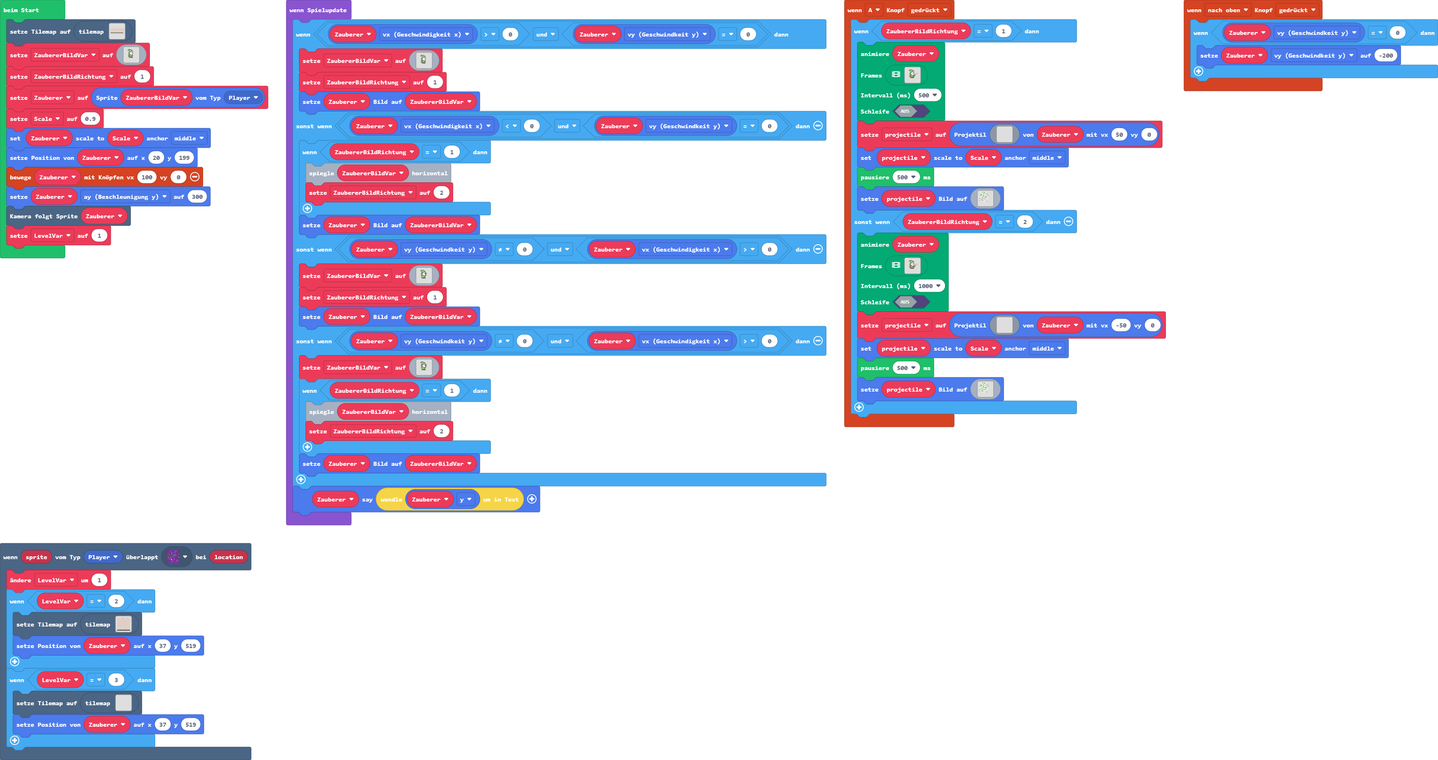
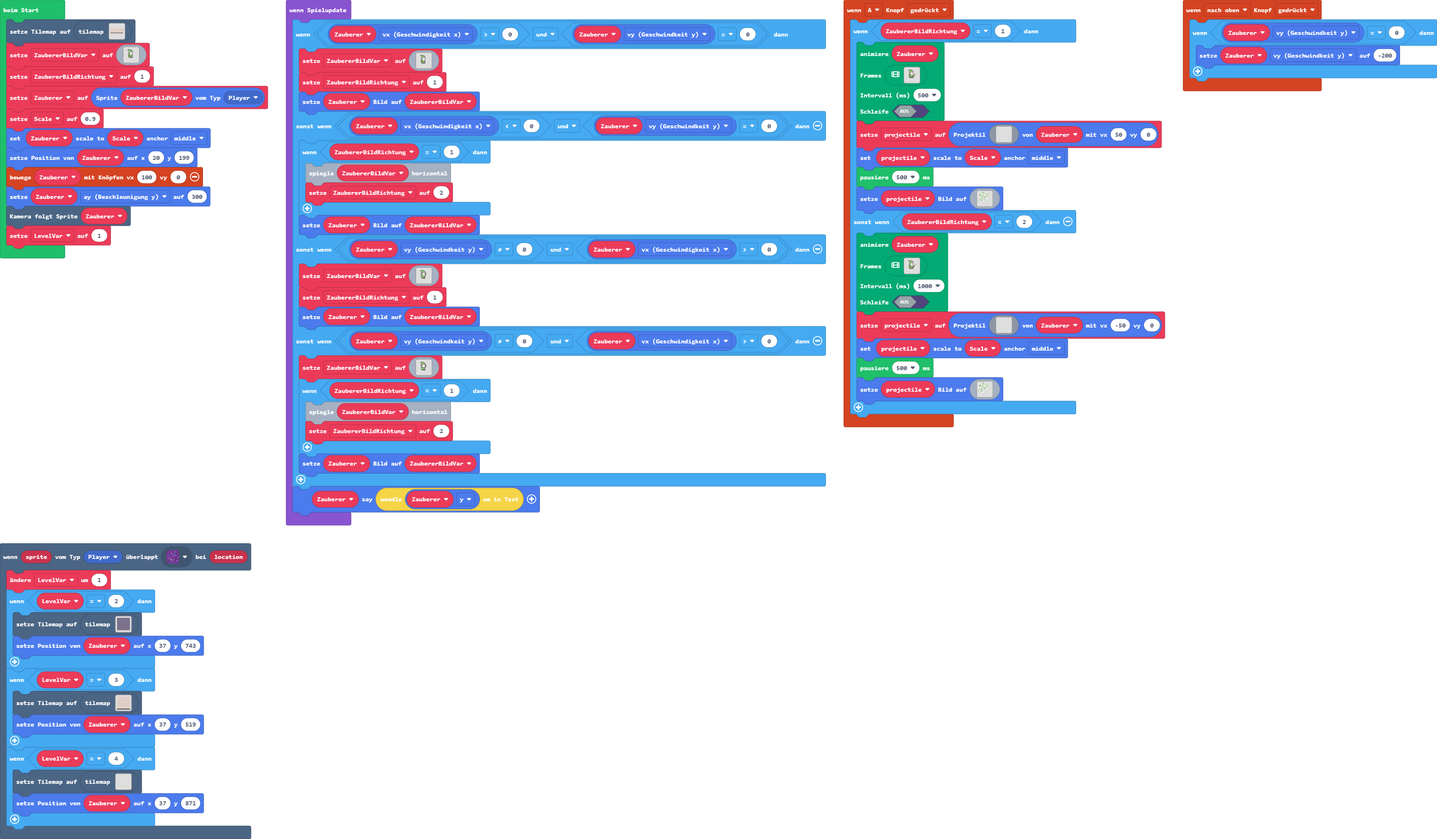
add bossarena

Changed region(s): [[0.0, 0.0, 0.8079, 0.9909], [0.8079, 0.0, 1.0, 0.1239]]

diff --git a/tilemap.g.ts b/tilemap.g.ts
@@ -9,7 +9,26 @@ namespace myTiles {
 
     helpers._registerFactory("tilemap", function(name: string) {
         switch(helpers.stringTrim(name)) {
-            case "Level2Tilemap0":
+            case "Level1Tilemap":
+            case "Level2Tilemap1":return tiles.createTilemap(hex`24001000010101010101010101010101010101010101010101010101010101010101010101010101010101010101010101010101010101010101010101010101010101010101010101010101010101010101010101010101010101010101010101010101010101010101010101010101010101010101010101010101010101010101010101010101010101010101010101010101010101010101010101010101010101010101010101010101010101010101010101050106010101010101010101040101010505050401010101010101010101010101010101050106010101010101010101010101010101010101010101010501050101010404040404040404010101010101010101010101010101010101010101010101010101010101010101010101010101010101010101010101010101010101010101010101010101010101010101010101010101010404010101010101010101010101010101010101010101010101010101010101010101010104040101010101010101010101010101010101010101010101010101010101010101010101010101010101010101010101010101010101010101010101010101010101030303030303030303030303030303030303030303030303030303030303030303030301020202020202020202020202020202020202020202020202020202020202020202020201010101010101010101010101010101010101010101010101010101010101010101010101010101010101010101010101010101010101010101010101010101010101010101010101`, img`
+....................................
+....................................
+....................................
+....................................
+.................................2..
+.........2...2222................2..
+......................2.2...2....222
+....................................
+....................................
+....22..............................
+.....22.............................
+....................................
+....................................
+22222222222222222222222222222222222.
+....................................
+....................................
+`, [myTiles.transparency16,sprites.castle.tilePath5,sprites.builtin.forestTiles10,sprites.castle.tilePath8,sprites.castle.tilePath2,myTiles.tile1,myTiles.tile2], TileScale.Sixteen);
+            case "Level2Tilemap":
             case "Level2":return tiles.createTilemap(hex`2300230001010101010101010101010101010101010101010101010101010101010101010101010101010101010101010101010101010301010101010101010101010101010101010101010101010101010101010101010101030101010101010101010101010101010101010101010101010101010101010101010101010101010101010101010101010101010101010101010101010101010101010101010101010101010101010101010101010101010101010101010101010101010101010101010101010101010101010101010101010101010101010101010101010101010101010101010101010101010101010101010101010101010101010101010101010101010101010101010101010101010101010101010101010101010101010101010101010101010101010101010101010101010101010101010101010102020202010101020202020202020202020202020202020202020202020202020202020101010101010101010101010101010101010101010101010101010101010101010101010101010101010101010101010101010101010101010101010101010101010101010101010101010101010101010101010101010101010101010101010101010101010101010202020202020202020202020201010101010202020202020202020202020202020202010101010101010101010101010101010202010101010101010101010101010101010101010101010101010101010101010102010101010101010101010101010101010101010101010101010101010101010101010101010101010101010101010101010101010101010101010101010101010101010101010101010101010101010101010101010101010102020202020202020202020202010101010202020202020202020202020202020202020101010101010101010101010102010101010101010101010101010101010101010101010101010101010101010101010101010101010101010101010101010101010101010101010101010101010101010101010101010101010101010101010101010101010101010202020202020202020202020202020202010101010101010101010101010101010101010101010101010101010101010101010102020202020202020202010101010202020201010101010101010101010101010101010101010101010101010102020101010101010101010101010101010101010101010101010101010101010101010101010101010101010101010101010101010101010101010101010101010101010101010101010101010101010101010101010101010101010101010101010101010101010101010101010101010101010101010101010101010101010101010101010101010101020202020202020202010101010101010101010202020202020202020202020202020201010101010101010101010102020202020202010101010101010101010101010101010101010101010101010101010101010101010101010101010101010101010101010101010101010101010101040404040404040404040404040404040404040404040404040404040404040404040405050505050505050505050505050505050505050505050505050505050505050505050505050505050505050505050505050505050505050505050505050505050505050505`, img`
 ...................................
 ...................................
@@ -47,27 +66,71 @@ namespace myTiles {
 22222222222222222222222222222222222
 22222222222222222222222222222222222
 `, [myTiles.transparency16,sprites.castle.tilePath5,sprites.castle.tilePath2,myTiles.tile2,sprites.castle.tilePath8,sprites.builtin.forestTiles6], TileScale.Sixteen);
-            case "Level1Tilemap":
-            case "Level2Tilemap1":return tiles.createTilemap(hex`24001000010101010101010101010101010101010101010101010101010101010101010101010101010101010101010101010101010101010101010101010101010101010101010101010101010101010101010101010101010101010101010101010101010101010101010101010101010101010101010101010101010101010101010101010101010101010101010101010101010101010101010101010101010101010101010101010101010101010101010101050106010101010101010101040101010505050401010101010101010101010101010101050106010101010101010101010101010101010101010101010501050101010404040404040404010101010101010101010101010101010101010101010101010101010101010101010101010101010101010101010101010101010101010101010101010101010101010101010101010101010404010101010101010101010101010101010101010101010101010101010101010101010104040101010101010101010101010101010101010101010101010101010101010101010101010101010101010101010101010101010101010101010101010101010101030303030303030303030303030303030303030303030303030303030303030303030301020202020202020202020202020202020202020202020202020202020202020202020201010101010101010101010101010101010101010101010101010101010101010101010101010101010101010101010101010101010101010101010101010101010101010101010101`, img`
-....................................
-....................................
-....................................
-....................................
-.................................2..
-.........2...2222................2..
-......................2.2...2....222
-....................................
-....................................
-....22..............................
-.....22.............................
-....................................
-....................................
-22222222222222222222222222222222222.
-....................................
-....................................
-`, [myTiles.transparency16,sprites.castle.tilePath5,sprites.builtin.forestTiles10,sprites.castle.tilePath8,sprites.castle.tilePath2,myTiles.tile1,myTiles.tile2], TileScale.Sixteen);
             case "Level3Tilemap":
-            case "Level3Tilemap1":return tiles.createTilemap(hex`1000100000000000000000000000000000000000000000000000000000000000000000000000000000000000000000000000000000000000000000000000000000000000000000000000000000000000000000000000000000000000000000000000000000000000000000000000000000000000000000000000000000000000000000000000000000000000000000000000000000000000000000000000000000000000000000000000000000000000000000000000000000000000000000000000000000000000000000000000000000000000000000000000000000000000000000000000000000000000000000000000000000000000000000000000000000000000`, img`
[1 lines of base64/hex data omitted]
+......................................................................
+......................................................................
+......................................................................
+......................................................................
+......................................................................
+......................................................................
+......................................................................
+......................................................................
+......................................................................
+......................................................................
+......................................................................
+......................................................................
+......................................................................
+......................................................................
+......................................................................
+......................................................................
+......................................................................
+......................................................................
+......................................................................
+......................................................................
+......................................................................
+......................................................................
+......................................................................
+......................................................................
+......................................................................
+......................................................................
+......................................................................
+......................................................................
+......................................................................
+......................................................................
+......................................................................
+......................................................................
+......................................................................
+......................................................................
+......................................................................
+......................................................................
+......................................................................
+......................................................................
+......................................................................
+......................................................................
+......................................................................
+......................................................................
+......................................................................
+......................................................................
+......................................................................
+......................................................................
+......................................................................
+......................................................................
+......................................................................
+......................................................................
+......................................................................
+......................................................................
+......................................................................
+........................................22............................
+...2222222222222........................222222222222..................
+.222............22222...............22222.............................
+....................22222222......22..................................
+...........................22222222...................................
+......................................................................
+......................................................................
+`, [myTiles.transparency16,sprites.castle.tileGrass2], TileScale.Sixteen);
+            case "Level1":
+            case "Level1":return tiles.createTilemap(hex`1000100000000000000000000000000000000000000000000000000000000000000000000000000000000000000000000000000000000000000000000000000000000000000000000000000000000000000000000000000000000000000000000000000000000000000000000000000000000000000000000000000000000000000000000000000000000000000000000000000000000000000000000000000000000000000000000000000000000000000000000000000000000000000000000000000000000000000000000000000000000000000000000000000000000000000000000000000000000000000000000000000000000000000000000000000000000000`, img`
 . . . . . . . . . . . . . . . . 
 . . . . . . . . . . . . . . . . 
 . . . . . . . . . . . . . . . . 
@@ -85,6 +148,59 @@ namespace myTiles {
 . . . . . . . . . . . . . . . . 
 . . . . . . . . . . . . . . . . 
 `, [myTiles.transparency16], TileScale.Sixteen);
+            case "Bossarena1Tilemap":
+            case "Bossarena1Tilemap1":return tiles.createTilemap(hex`3200320004070707030303030303030303030303030303030303030303030303030303070707070707070707070303070707070707060803030307070707070707070703030303030303030303030303030303030707030303030303030307070707030303030308080303030303030303030303030707070703030303030303030303030707030303030303030303030303030303030303030808030303030303030303030303030303030707070303030303030303070303030303030303030303030303030303070703080803030303030303030303030303030303030303070703030303070703030303030303030303030303030707070703030308080307030303030303030303030303030303030303030707070707030303030303030303030303070707030303030303030808030707070707070707070707070707070303030303030303030303030303030303030307070703030303030303030303080803030303030303030303030303030303030303030303030303030303030303070707070303030303030303030303030308080203030303030303030303030303030303030303030303030303030303070703030303030303030303030303030303030803030203030303030303030303030303030303030303030707070707070707070707070707070707070707070707070703080308070707070707070707070707070707070703030303030303030303030303030303030303030303030303030303030808030803030303030303030303030303030303030303030303030303030303030303030303030303030303030303030303080303080303030303030303030303030303030303030303030303030303030303030303030303030303030303030303030308030803030303030303030303030303030303030303030303030303030303030303030303030303030303030303030303080803080803030303070707070707070707070707070707070707070707070707070707070707070707070707070707070308030303070703030303030303030303030303030303030303030303030303030303030303030303030303030303030303030803030308030707030303030303030303030303030303030303030303030303030303030303030303030303030303030303080303030803030307070303030303030307070707070707070707070707070707070707070707070707070707070707030808030303080303030303070707030303030303030303030303030303030303030303030303030303030303030303030303080303030308030303030303030307070303030303030303030303030303030303030303030303030303030303030303030808030303030808030303030303030303070703030303030303030303030303030303030303030303030303030303030303080303030303080807030303030303030303030707070303030303030303030303030303030303030303030303030303030308030303030303080307070303030303030303030303070703030303030307070707070707070707070707070707070707070803030303030308030303070703030303030303030303030707070303030303030303030303030303030303030303030303080303030303030803030303030707030303030303030303030303070703030303030303030303030303030303030303030308030303030303080303030303030307070303030303030303030303030707030303030303030303030303030303030303030803030303030308030303030303030303070703030303030303030303030307070703030303030303030303030303030303080303030303030707070303030303030303030707070303030303030303030303030707030303030303030303030303030308030303030303080303070703030303030303030303070703030303030303030303030307070303030303030303030303030803030303030308030303030707030303030303030303030707030303030303030303030303070703030303070707070707080303030303030803030303030307070703030303030303030307070303030303030303030303030303030303030303030308030303030303080303030303030303030707030303030303030303070703030303030303030303030303030303030303030803030303030808030303030303030303030307070303030303030303030707030303030303030303030707070707070707080303030303080303030303030303030303030303070703030303030303030303030303030303030303030303030303030308080303030308070707070707070707070707070707070707030303030303030303030303030303030303030303030303030308030303030803030303030303030303030303030303030307070707070707070707070707070707070707030303030303030803030303080303030303030303030303030303030303030303030303030303030303030303030303030303030303030303080303030308030303030303030303030303030303030303030303030303030303030303030303030303030303030303070703080303030803030303030303030303030303030303030303030303030303030303030303030303030303030307070703030308030303080303030303030303030303030303030303030303030303030303030303030303030303030707070303030303030803030308030303030303030303030303030303030303030303030303030303030303030303070707030303030303030303080803030803030707070707070707070707070707070707070707070707070707070707070707070707070707070707070707080308080303030303030303030303030303030303030303030303030303030303030303030303030303030303030303030308080808030303030303030303030303030303030303030303030303030303030303030303030303030303030303030303030803080303030707030303030303030303030303030303030303030303030303030303030303030303030303030303030303080308030303030303030303030303030303030303030303030303030303030303030303030303030303030303030303030308030803030303030303030303030303030303030303030303030303030303030303030303030303030303030303030303030808050909090909090909090909090909090909090909090909090909090909090909090909090909090909090909090909090901010101010101010101010101010101010101010101010101010101010101010101010101010101010101010101010101010101010101010101010101010101010101010101010101010101010101010101010101010101010101010101010101010101`, img`
+2222...........................2222222222..2222222
+2...222222222.................22........2222.....2
+2............2222...........22...................2
+2................222........2.................22.2
+2...................22....22..............2222...2
+2.2...................22222............222.......2
+2.222222222222222...................222..........2
+2...............................2222.............2
+2.............................22.................2
+.2.....................2222222222222222222222222.2
+.222222222222222222.............................22
+.2..............................................2.
+.2..............................................2.
+2..............................................22.
+22....2222222222222222222222222222222222222222.2..
+.22............................................2..
+.2.22..........................................2..
+.2...22.......2222222222222222222222222222222.22..
+.2.....222....................................2...
+.2........22.................................22...
+.22.........22...............................2....
+.222..........222............................2....
+..2.22...........22......222222222222222222222....
+..2...22...........222.......................2....
+..2.....22............22.....................2....
+..2.......22............22...................2....
+..2.........22............222................2....
+..222.........222............22..............2....
+..2..22..........22............22............2....
+..2....22..........22............22....2222222....
+..2......222.........22......................2....
+..2.........22.........22....................2....
+.22...........22.........22..........222222222....
+.2..............22...........................22...
+.2222222222222222222..........................2...
+.2..................2222222222222222222.......2...
+.2............................................2...
+.2..........................................22.2..
+.2.......................................222...2..
+.2....................................222......2..
+.2.................................222.........22.
+.2..222222222222222222222222222222222222222222222.
+22..............................................22
+22..............................................2.
+2...22..........................................2.
+2...............................................2.
+2...............................................22
+22222222222222222222222222222222222222222222222222
+22222222222222222222222222222222222222222222222222
+..................................................
+`, [myTiles.transparency16,sprites.castle.tilePath5,sprites.dungeon.darkGroundCenter,sprites.dungeon.darkGroundNorthWest0,sprites.dungeon.greenOuterNorthWest,sprites.dungeon.greenOuterSouthEast,sprites.dungeon.greenOuterNorthEast,sprites.dungeon.greenOuterNorth0,sprites.dungeon.greenOuterWest1,sprites.dungeon.greenOuterSouth0], TileScale.Sixteen);
         }
         return null;
     })

diff --git a/images.g.ts b/images.g.ts
@@ -671,110 +671,6 @@ namespace myImages {
 ..................................................
 ..................................................
 `];
-            case "ZaubererJumpAnimation":
-            case "anim3":return [img`
-..................................................
-..................................................
-..................................................
-..................................................
-..............ffffffff............................
-.............ff777777fff..........................
-............f77777777777ff........................
-...........fffff777777777ff.......................
-................f777777777ff......................
-.................f777777777ff.....................
-.................f777777ffffff....................
-.................f7777fff11111f...................
-.................f777ff1ddddd1f...................
-................f777ffdd1ddd1f....................
-...............ffffff1d1fdd1fffff.................
-..............ff44ff11dddddddf4ff.................
-..............f444f111dddddddf44f.................
-..............fffff1111111111ffff.................
-..............f777f11111222111f7f.................
-..............f777f11111111111f7f.................
-..............f777f1111111111f77f.................
-..............f777f11111111111f7f.................
-..............f777ff1111111111f7f.................
-..............f7777f1f1111111f77f.................
-..............ffff7ffff11111f7ff..................
-...............ff777f7f1f111ff....................
-...............f7777777fff1fff....................
-...............f777777777ffff.....................
-...............f777777777777f.....................
-...............f777777777777f.....................
-...............f777777777777f.....................
-...............f777777777777f.....................
-...............f777fffffffff......................
-...............f77fbbf..fbbfff....................
-................ffbbbbf.fbbbbf....................
-.................ffffff.ffffff....................
-..................................................
-..................................................
-..................................................
-..................................................
-..................................................
-..................................................
-..................................................
-..................................................
-..................................................
-..................................................
-..................................................
-..................................................
-..................................................
-..................................................
-`, img`
-..................................................
-..................................................
-..................................................
-..................................................
-..............ffffffff............................
-.............ff777777fff..........................
-............f77777777777ff........................
-...........fffff777777777ff.......................
-................f777777777ff......................
-.................f777777777ff.....................
-.................f777777ffffff....................
-.................f7777fff11111f...................
-.................f777ff1ddddd1f...................
-................f777ffdd1ddd1f....................
-................f77ff1d1fdd1ff....................
-...............ff77f11dddddddf....................
-...............f77f111dddddddf....................
-...............f77f1111111111f....................
-...............f7ff11111222111f...................
-................fff11111111111f...................
-...............f7f11111111111f....................
-..............ff77f11111111111f...................
-..............f777ff1111111111f...................
-..............f7777f1f1111111f....................
-..............f777fffff11111f.....................
-..............f77f7777f1f111f.....................
-..............f777f7777fff1fff....................
-..............fffff777777fff4f....................
-..............f444f777777777ff....................
-..............f444f777777777f.....................
-..............fffff777777777f.....................
-..............ff777777777777f.....................
-...............f777fffffffff......................
-...............f77fbbf..fbbfff....................
-................ffbbbbf.fbbbbf....................
-.................ffffff.ffffff....................
-..................................................
-..................................................
-..................................................
-..................................................
-..................................................
-..................................................
-..................................................
-..................................................
-..................................................
-..................................................
-..................................................
-..................................................
-..................................................
-..................................................
-`];
         }
         return null;
     })

diff --git a/main.ts b/main.ts
@@ -31,12 +31,16 @@ controller.up.onEvent(ControllerButtonEvent.Pressed, function () {
 scene.onOverlapTile(SpriteKind.Player, assets.tile`PortalTile`, function (sprite, location) {
     LevelVar += 1
     if (LevelVar == 2) {
-        tiles.setCurrentTilemap(tilemap`Level2Tilemap0`)
-        Zauberer.setPosition(37, 519)
+        tiles.setCurrentTilemap(tilemap`Bossarena1Tilemap`)
+        Zauberer.setPosition(37, 743)
     }
     if (LevelVar == 3) {
-        tiles.setCurrentTilemap(tilemap`Level3Tilemap`)
+        tiles.setCurrentTilemap(tilemap`Level2Tilemap`)
         Zauberer.setPosition(37, 519)
+    }
+    if (LevelVar == 4) {
+        tiles.setCurrentTilemap(tilemap`Level3Tilemap`)
+        Zauberer.setPosition(37, 871)
     }
 })
 let projectile: Sprite = null
